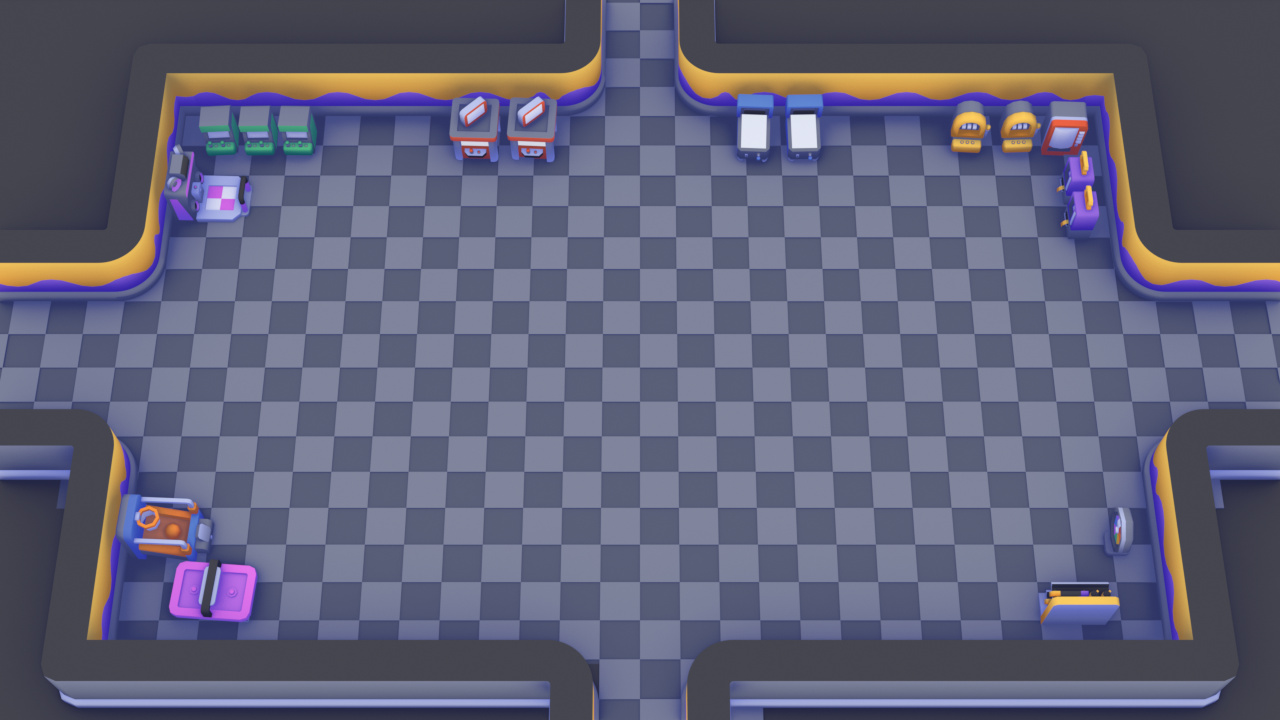
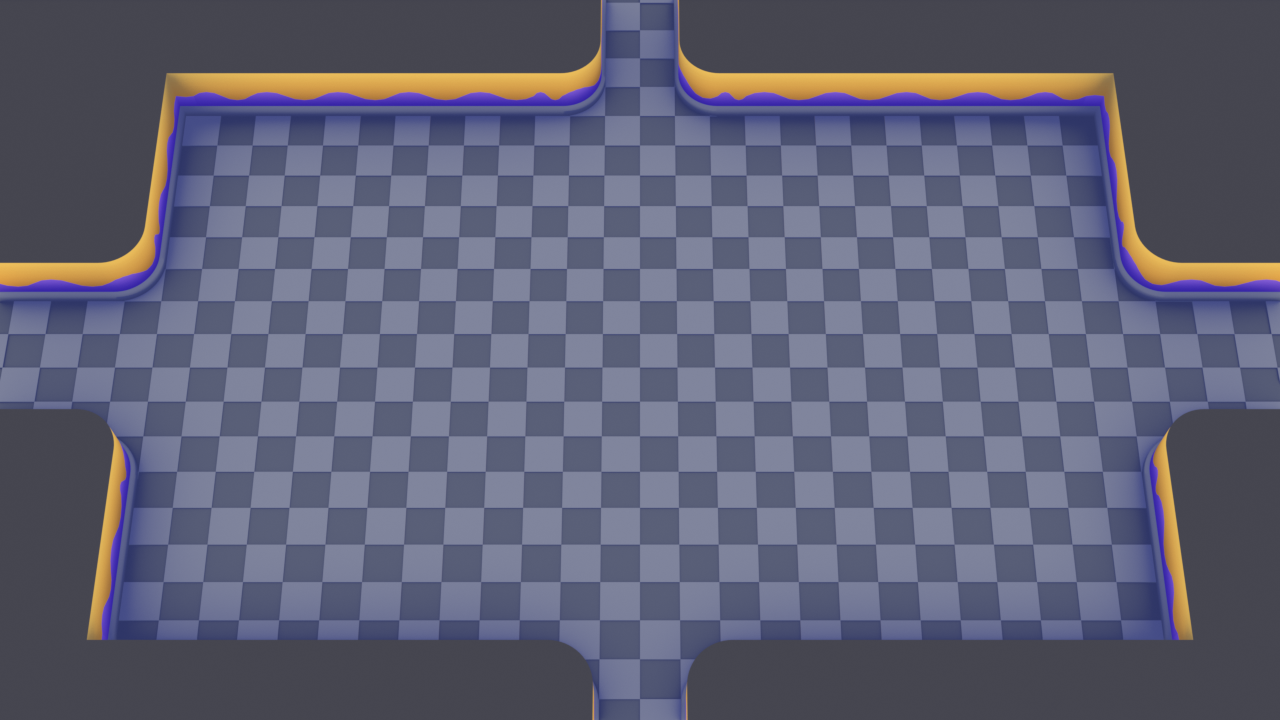
Re-render the edited backgrounds and turn on dev keys only under npm run dev
The arcade, arena and forest renders pick up the latest arena.blend edits, and
art/README.md now describes those layouts. DEV_EVENTS moves to src/dev.js, which
the dev server serves as true when started with --dev (npm run dev), and a new
dev key B swaps the backdrop on screen to compare backgrounds.

diff --git a/server/index.js b/server/index.js
@@ -12,6 +12,7 @@ import path from 'node:path';
 import { normalize } from '../game/src/events.js';
 
 const PORT = process.env.PORT || 8787;
+const DEV = process.argv.includes('--dev');   // `npm run dev`: turns on the game's dev keys and buttons (game/src/dev.js)
 const ROOT = path.join(import.meta.dirname, '..', 'game');
 const MIME = { '.html': 'text/html', '.js': 'text/javascript', '.css': 'text/css', '.png': 'image/png', '.json': 'application/json', '.ttf': 'font/ttf' };
 const ROUTES = { '/messages': normalize['chat-message'], '/reactions': normalize['meet-reaction'] };
@@ -37,6 +38,10 @@ setInterval(() => { for (const res of clients) res.write(': ping\n\n'); }, 25000
 // ---- Static files ----
 function serveStatic(req, res) {
   const url = decodeURIComponent(req.url.split('?')[0]);
+  if (DEV && url === '/src/dev.js') {
+    res.setHeader('Content-Type', 'text/javascript');
+    return res.end('export const DEV_EVENTS = true;\n');
+  }
   let file = path.join(ROOT, url.slice(1) || 'index.html');
   if (!path.extname(file)) file += '.html';   // /control -> control.html
   if (!file.startsWith(ROOT + path.sep)) { res.statusCode = 403; return res.end(); }
@@ -73,4 +78,4 @@ http.createServer((req, res) => {
     res.statusCode = 404;
     res.end();
   }
-}).listen(PORT, () => console.log(`Game server on http://localhost:${PORT}`));
+}).listen(PORT, () => console.log(`Game server on http://localhost:${PORT}${DEV ? ' (dev keys on)' : ''}`));

diff --git a/game/src/control.js b/game/src/control.js
@@ -8,6 +8,7 @@ const DEV = {
   battle: [['C', 'Fake attack'], ['X', 'Fake chatter'], ['T', 'Fake typo'], ['P', 'Fake counter'], ['R', 'Fake reaction'], ['H', 'Drop a heart'], ['G', 'Fake heart grab']],
   survival: [['C', 'Fake attack'], ['T', 'Fake typo'], ['P', 'Fake counter'], ['R', 'Fake reaction'], ['H', 'Drop a heart'], ['G', 'Fake heart grab'], ['E', 'Spawn an enemy']],
 };
+const DEV_ANY = [['B', 'Next background']];   // in every phase
 
 const $ = (id) => document.getElementById(id);
 const channel = new BroadcastChannel(CHANNEL);
@@ -61,7 +62,7 @@ function render(state) {
   button('end').hidden = lobby;
   button('end').textContent = state.over ? 'Back to lobby' : 'End round';
   $('log-section').hidden = lobby;
-  $('dev-section').hidden = !state.devEvents;   // DEV_EVENTS in config.js
+  $('dev-section').hidden = !state.devEvents;   // DEV_EVENTS, on under `npm run dev`
   renderDev(state.phase);
   cpus = state.cpus ?? {};
   const nCpus = Object.keys(cpus).length;
@@ -184,7 +185,7 @@ function fighterState(f) {
 function renderDev(phase) {
   if (phase === devPhase) return;
   devPhase = phase;
-  $('dev').replaceChildren(...(DEV[phase] ?? []).map(([key, label]) => {
+  $('dev').replaceChildren(...[...(DEV[phase] ?? []), ...DEV_ANY].map(([key, label]) => {
     const b = document.createElement('button');
     b.className = 'secondary';
     b.append(Object.assign(document.createElement('kbd'), { textContent: key }), label);

diff --git a/game/src/main.js b/game/src/main.js
@@ -8,7 +8,7 @@ import { BattleScene } from './scenes/BattleScene.js';
 import { SurvivalScene, coopDifficulty, setCoopDifficulty } from './scenes/SurvivalScene.js';
 import { HowToScene } from './scenes/HowToScene.js';
 import { HudScene } from './scenes/HudScene.js';
-import { BATTLE, backgroundChoice, setBackgroundChoice, currentBackground } from './backgrounds.js';
+import { BATTLE, backgroundChoice, setBackgroundChoice, currentBackground, cycleBackground } from './backgrounds.js';
 
 // Every scene.add.text() defaults to FONT_FAMILY, so emoji render with Noto Color Emoji (see index.html), and
 // to TEST_STRING, so they aren't clipped.
@@ -39,6 +39,13 @@ connectRemote(game, () => ({
   setDifficulty: (value) => setCoopDifficulty(value),
   setBackground: (id) => setBackgroundChoice(id),
   removeCpus: () => removeBots(game),
+  B: () => nextBackground(),
 });
+// Dev: B swaps the showing scene's backdrop (works in every scene, so it's here rather than in the scenes' commands).
+function nextBackground() {
+  const scene = game.scene.getScenes(true).find((s) => s.background);
+  if (DEV_EVENTS && scene) cycleBackground(scene);
+}
+if (DEV_EVENTS) window.addEventListener('keydown', (e) => { if (e.code === 'KeyB' && !e.repeat) nextBackground(); });
 startBots(game);
 window.game = game;   // for poking at state from the dev console

diff --git a/game/src/backgrounds.js b/game/src/backgrounds.js
@@ -55,8 +55,18 @@ export function addBattleBackground(scene) {
   return add(scene, current);
 }
 
+// Dev: swaps the scene's backdrop for the next one (lobby's included), to compare them quickly. Doesn't change the
+// host's pick.
+export function cycleBackground(scene) {
+  const ids = [LOBBY, ...BATTLE.map((b) => b.id)];
+  const id = ids[(ids.indexOf(scene.background.texture.key.slice(3)) + 1) % ids.length];
+  scene.background.setTexture(key(id));
+  if (scene.scene.key !== 'lobby') current = id;   // so the control page names what's showing
+}
+
 function add(scene, id) {
-  return scene.add.image(0, 0, key(id)).setOrigin(0).setDepth(-1000);
+  scene.background = scene.add.image(0, 0, key(id)).setOrigin(0).setDepth(-1000);
+  return scene.background;
 }
 
 function key(id) {

diff --git a/game/control.html b/game/control.html
@@ -81,7 +81,7 @@
           <button data-command="end" class="secondary">End round</button>
         </div>
         <div id="dev-section">
-          <h2 style="margin-top: 16px;">Dev: fake events <span style="text-transform: none; letter-spacing: 0;">(keys work on the game page too)</span></h2>
+          <h2 style="margin-top: 16px;">Dev <span style="text-transform: none; letter-spacing: 0;">(keys work on the game page too)</span></h2>
           <div class="row" id="dev"></div>
         </div>
       </section>

diff --git a/game/src/config.js b/game/src/config.js
@@ -118,6 +118,4 @@ export function waveSpec(n, players, setting = DIFFICULTIES[NORMAL]) {
 
 export const CHAT_BUBBLE_MS = 4000; // how long lobby chat stays above a character
 
-// Dev fake events: the game page's dev keys and the control page's "fake events" buttons (see the scenes' `commands`).
-// CPU players don't depend on this.
-export const DEV_EVENTS = false;
+export { DEV_EVENTS } from './dev.js'; // on only under `npm run dev`

diff --git a/game/src/dev.js b/game/src/dev.js
@@ -1,0 +1,4 @@
+// Dev fake events: the game page's dev keys and the control page's "fake events" buttons (see the scenes' `commands`).
+// Off everywhere except `npm run dev`, where the dev server serves this module with `true` instead (server/index.js).
+// CPU players don't depend on this.
+export const DEV_EVENTS = false;

diff --git a/art/README.md b/art/README.md
@@ -32,7 +32,8 @@ lowercase name) so code can find them all.
     anything in front of the floor that rises above about 1 m covers the floor in the picture.
 - **`<Name>`** (for example `Forest`): everything that background's camera sees.
 - **`<Name> Pack`**: the pack's models, out of view at x ≥ 14. Objects are named `<pack>-<model>` (for example
-  `forest-tree`). Each pack has one packed texture (`<pack>-colormap.png`) and one material (`<pack>-colormap`) that
+  `forest-tree`). Some placed decor also lives here, moved into view (the arena's columns and bricks, the forest's
+  camp props), so a background is everything in view from both collections. Each pack has one packed texture (`<pack>-colormap.png`) and one material (`<pack>-colormap`) that
   runs through the shared `Toon Style` node (see "Look"), so every background is shaded alike.
 - The world (dark backdrop) and render settings are the same in all scenes.
 
@@ -66,42 +67,41 @@ The entrances in the new backgrounds are flat hallways/trails rather than stairs
   symmetric, so one piece fits all eight spots by turning it (0 when its square points toward +x/+y, π/2 for −x/+y,
   −π/2 for +x/−y, π for −x/−y). The room wall next to it is scaled to 0.4 m, and a floor tile under it
   (`door-floor`) carries the checker into the rounded-off part.
-- **Outside**: `outside-cap`, one flat mesh at ground level filling everything outside the room and hallways (a big
-  square with the floor and the four entrance lanes cut out). It uses `arcade-colormap` with every UV on the wall
-  tops' texel, so it's exactly the wall-top color and gets the same AO. At ground level the walls still stand up from
-  it with their rounded corners; level with the wall tops it merged them into one slab.
-- **Decor**: machines along the back and side walls, facing in; air hockey and the prize counter in the front
-  corners, since the front wall hides anything placed against it. Keep the floor's middle clear.
+  Four of the `door-corner` pieces are single-user copies (`arcade-wall-corner-outer.001` etc.), tweaked on their own.
+- **Outside**: nothing; the world's dark backdrop shows around the room and hallways.
+- **Decor**: none, so the floor reads clearly behind the lobby's floor text and characters.
 
 ### Arena
 - **Floor**: `arena-floor`, with some `arena-floor-detail` away from the middle.
 - **Border**: a ring of the pack's low `stairs` (0.5 m) climbing away from the floor, with `stairs-corner-inner` at
   the corners (it matches the straight runs on both of its sides; unturned, its low corner points to +x/−y).
-- **Outside**: raised ground of `arena-block` (`ground`), level with the top step, filling the rest of the frame,
-  with some `arena-floor-detail` on top.
+- **Outside**: raised ground, level with the top step, filling the rest of the frame: six large scaled blocks
+  (`ground`), one either side of each side path and two either side of the back path.
 - **Entrances**: flat paths cut through the stairs and raised ground, lined on both sides with `border-straight`
   (`path-edge`) as low walls.
-- **Decor** (kept sparse): six columns and two broken ones along the rim, statues in the back corners, a banner
-  either side of the back path, and eight trees further out.
+- **Decor** (kept sparse): a row of columns along the back rim and a few down the sides, some broken
+  (`column-damaged`), with brick piles (`bricks`) between them; these are in `Arena Pack`, placed at z 0.5 on the raised
+  ground. A banner either side of the back path, and trees (`arena-tree`) at the frame's corners.
 
 ### Forest
-- **Clearing**: `ground`, one large plane with the `forest-grass` material: a noise texture through a two-green
-  constant ramp, darker outside the floor rectangle with a wavy edge, into `Toon Style`.
-- **Forest floor**: the pack's grass tiles on every cell of the border band and beyond, except the trails: mostly flat
-  `patch-grass` (`ground-grass`), some raised `platform` (`ground-platform`).
-- **Trees**: `tree` and `tree-high`, randomly turned and sized, standing on the tiles, trunks kept off the floor and out
+- **Clearing**: `Circle` (in `Forest Pack`), one large flat disc (about 18×19.5 m) at the origin using
+  `forest-colormap`, so its green comes from the pack's texture and the `Distance Fade` darkens it toward the edges.
+  The old `forest-grass` material (noise through a two-green ramp) is no longer used by anything.
+- **Forest floor**: the same disc runs under the trees; the old grass tiles are gone except one raised `platform`
+  (`ground-platform`).
+- **Trees**: `tree` and `tree-high` (about 190), randomly turned and sized, standing on the disc, trunks kept off the floor and out
   of the entrance lanes. Trees in front of the floor are scaled down so their tops stay just below the floor's front
   edge in the picture (about where the dungeon's front wall is), and the ones on the camera's side of the side
-  trails are kept small so the trail shows. Plants line the forest's edge; a few plants and dirt patches sit near the
-  clearing's edges.
-- **Trails** (the only rock): a `rocks-ramp` at the forest's edge climbing to `rocks-low` tiles with `patch-grass` on
+  trails are kept small so the trail shows. One plant and two dirt patches sit near the clearing's edges.
+- **Trails**: a `rocks-ramp` at the forest's edge climbing to `rocks-low` tiles with `patch-grass` on
   top, running off screen.
-- **Distance fade**: the `Distance Fade` node group sits between the color and `Toon Style` in `forest-colormap` and
-  `forest-grass`. It blends the color toward `Tint` (the AO tint at a quarter brightness) by how far the surface is
-  outside the floor rectangle in world space, so the forest darkens away from the clearing: no fade at `Start`
-  (0.2 m), `Amount` (0.9) by `End` (1.5 m). The range is short because tree tops lean outward on screen, so the
-  canopy at the frame's edges is only about 1–1.5 m out. Each material has its own node, so set both the same. Add
-  the group to another material the same way to use it elsewhere.
+- **Camp decor** (in `Forest Pack`): a tent and fences back-left, an archery range (three targets and a flag)
+  back-right and right, stones and a fence in the front corners, and two half-buried `Sphere` mounds.
+- **Distance fade**: the `Distance Fade` node group sits between the color and `Toon Style` in `forest-colormap`. It
+  blends the color toward `Tint` (the AO tint at a quarter brightness) by how far the surface is outside the floor
+  rectangle in world space, so the forest darkens away from the clearing. It's set to `Start` −1.4 m (so the fade
+  begins inside the floor, shading the clearing's edges), `End` 6.1 m and `Amount` 3.1. Add the group to another
+  material the same way to use it elsewhere.
 
 ### Dungeon
 The original arena, built before the others. These notes go into more detail.

diff --git a/CLAUDE.md b/CLAUDE.md
@@ -149,7 +149,7 @@ other tuning; animation tuning lives at the top of Character.js).
 - Emoji use Google's Noto Color Emoji (`game/fonts/Noto-COLRv1.ttf`, `@font-face` in `index.html`). `main.js` makes
   `FONT_FAMILY` the default for every `scene.add.text()` and loads the font before the game starts.
 - Game features must work in all three modes (extension, dev server, solo/static), so they talk only through
-  bridge.js and `remote.js` and never need the server: nothing beyond the event relay belongs in `server/`.
+  bridge.js and `remote.js` and never need the server: nothing beyond the event relay (and `--dev` switching on `src/dev.js`) belongs in `server/`.
 - Commit directly to `main`; no feature branches for now.
 
 ## Running and testing
@@ -161,7 +161,10 @@ other tuning; animation tuning lives at the top of Character.js).
   `python3 -m http.server -d dist/web`.
 - Dev server: `npm start` (or `npm run dev` to restart on changes) → http://localhost:8787, control page at
   http://localhost:8787/control in another tab of the same browser. `PORT=… npm start` uses another port.
-- Dev keys on the game page, also buttons on the control page, when `DEV_EVENTS` is true in `config.js` (default false; fake events take the same path as real ones): lobby **C** = a fake player joins,
+- Dev keys on the game page, also buttons on the control page, only under `npm run dev`: `DEV_EVENTS` (`src/dev.js`,
+  re-exported by `config.js`) is false, and the dev server started with `--dev` serves that module with `true` instead,
+  so the extension, `npm start` and the static site never have them (fake events take the same path as real ones).
+  Any scene **B** = swap the backdrop on screen for the next one (`cycleBackground()`, doesn't change the host's pick); lobby **C** = a fake player joins,
   **R** = a random player reacts; battle **C** = a random fighter attacks another, **X** = a non-word chat,
   **T** = a typo of someone's word, **P** = a chased fighter counters their chaser,
   **H** = drop a heart now, **G** = a random fighter goes for the heart; co-op **C**/**T**/**P**/**R**/**H**/**G** likewise

diff --git a/README.md b/README.md
@@ -56,11 +56,12 @@ random one each round, or pick one with the control page's **Background** dropdo
 
 **CPU players**: pick a level (Easy, Normal, Hard or Mixed) and click **Add CPU** on the control page. CPUs join
 by chatting and play by typing words at their own speed, with typos, counters and heart grabs, so you can play with fewer people.
-With `DEV_EVENTS = true` in `game/src/config.js`, dev buttons on the control page (or keys on the game page) send fake events: **C** fake join
-(lobby) or attack (battle), **X** fake non-word chat, **T** fake typo, **P** fake counter, **R** fake reaction.
+Under `npm run dev` (see Dev server), dev buttons on the control page (or keys on the game page) send fake events: **C** fake join
+(lobby) or attack (battle), **X** fake non-word chat, **T** fake typo, **P** fake counter, **R** fake reaction, and
+**B** swaps the backdrop on screen for the next one, to compare backgrounds.
 
 ## Dev server
-`npm install`, then `npm start` (or `npm run dev` to restart on server changes) serves the same game at
+`npm install`, then `npm start` (or `npm run dev` to restart on server changes and turn on the dev keys) serves the same game at
 http://localhost:8787 and the control page at http://localhost:8787/control, so you can work on the game without
 reloading the extension. Events come from the dev keys, `curl`, or the play page instead of Meet.
 
